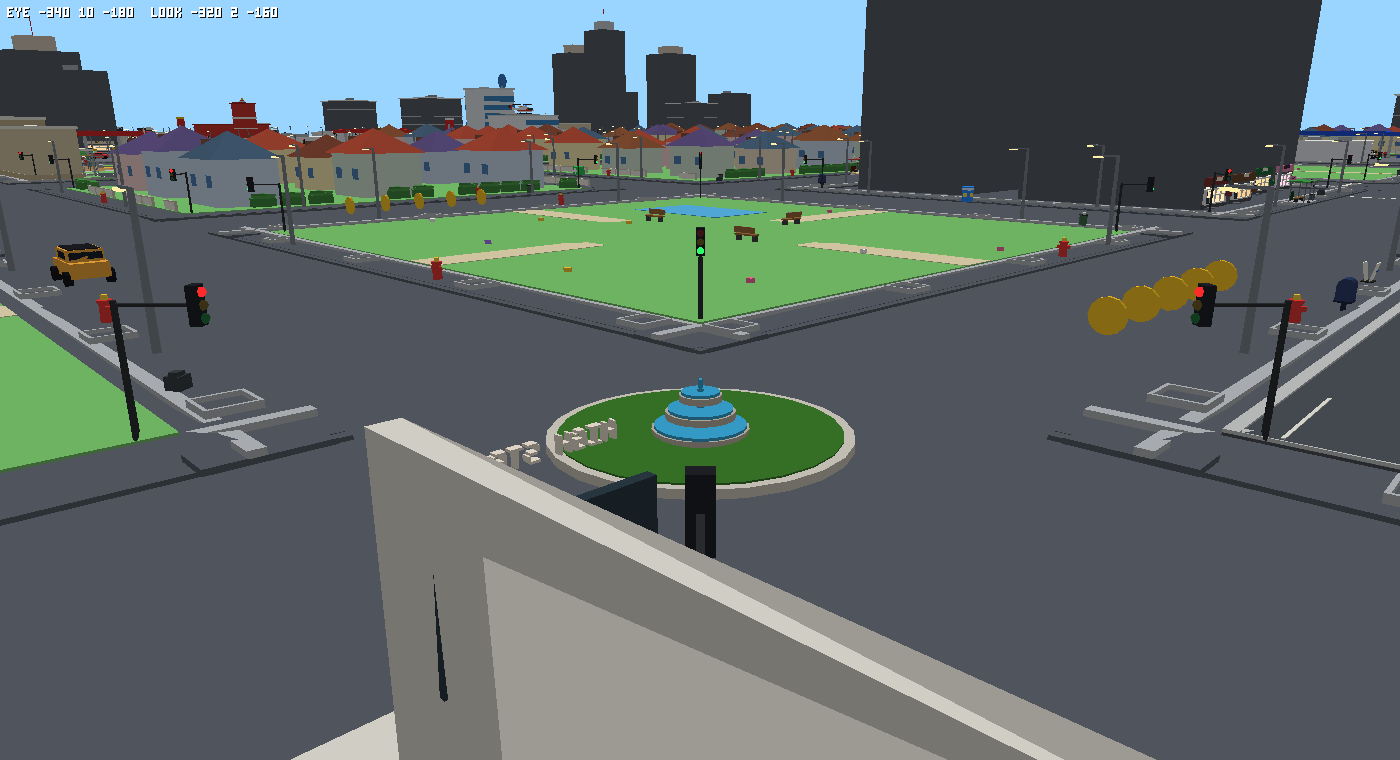
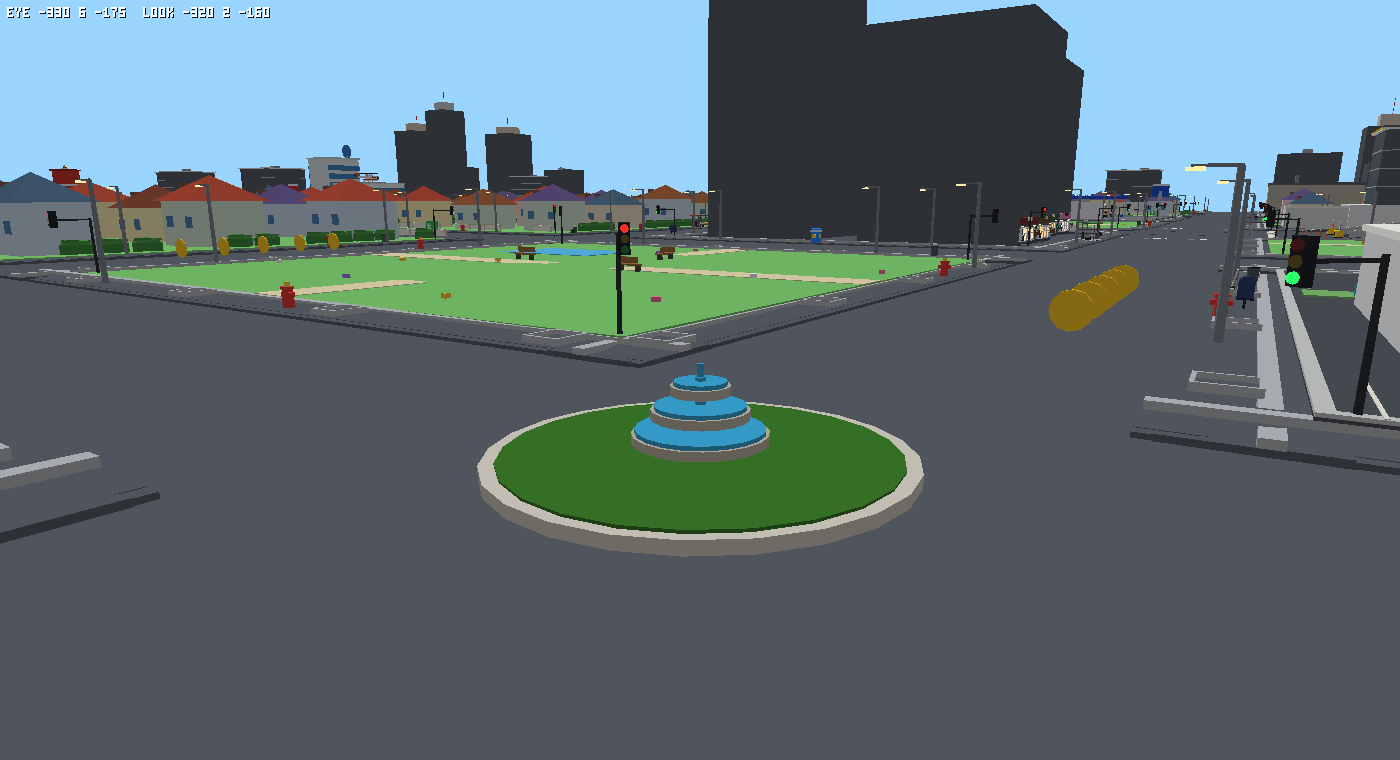
plazas: island is drivable, central feature is a breakable prop
The plaza island no longer has a solid — it's a 0.3 m curb (speed
bump) that cars can drive over. The central feature (fountain, statue,
or tree grove) is now a destructible prop placed via prop(), so a car
that hits it knocks it down: it flies through the air, slows the car,
and leaves the island empty, exactly like a hydrant or streetlight.

Distribution (41x41 range, ~15% of eligible junctions):
  fountains 77, statues 83, tree groves 80 — roughly 1/3 each.

The three render snapshots show each type in context.

diff --git a/js/world.js b/js/world.js
@@ -1456,60 +1456,30 @@ function buildFlyoverGantry(legV, dir) {
 }
 
 /* ---- Junction plazas ----
- * A small circular island in the middle of an eligible plain four-way junction: a curb ring in concrete, a
- * disc of grass inside, and a central feature (fountain, statue, or tree grove) chosen by the hash of the
- * junction's own indices. It sits on top of the road texture, which is fine: the island is a solid, so cars
- * steer around it and the junction reads as a small roundabout.
+ * A small circular island in the middle of an eligible plain four-way junction: a curb ring in concrete and
+ * a disc of grass inside. The central feature (fountain, statue, or tree grove) is a destructible prop placed
+ * at the junction's centre — a car that drives into it knocks it down, just like a streetlight or a hydrant.
+ * The island itself has no solid, so cars can drive over it (the curb is only 0.3 m tall — a speed bump).
  *
  * `plazaAt(jx, jz)` in js/flyover.js decides which junctions get one — it keeps plazas off the main roads
  * (where flyovers live), off junctions beside flyovers (the cut corner would swallow them), and off junctions
  * under flyover ramps. ~15% of the remaining junctions become plazas.
  *
  * The whole island is 5 m in radius. A plain junction's carriageway is 16.5 m wide, so that leaves 3.25 m of
- * lane on each side — enough for one lane each way, and enough for the traffic to go around the island. The
- * island is recorded as a solid (for cars) and a keepout (for props and parked cars), so nothing lands on it.
+ * lane on each side — enough for one lane each way, and enough for the traffic to go around the island.
  *
- * The builder produces only its own geometry — no props — and returns the island as a Group ready to be
- * placed at the junction's world position by the chunk that owns that corner (one chunk per junction, so
- * nothing duplicates).
+ * The builder produces only the island base (curb + grass). The central feature is placed separately as a
+ * prop by generateChunk() so it gets the same breakable-prop lifecycle as everything else (collision, drag,
+ * flying debris, etc.).
  */
-function buildPlazaIsland(radius, feature) {
+function buildPlazaIsland(radius) {
   const g = new THREE.Group();
-  const concrete = mat(0xd4cfc4), grass = mat(0x3a7a2a), stone = mat(0xbfb7a8), water = mat(0x3aa8d8, { emissive: 0x0a3a50 });
-  // The curb: a solid concrete disc that is the island's base, 0.3 m tall. Its top is the level traffic has to
-  // clear to drive on the island (which is what the solid's maxY enforces — nothing climbs onto it).
+  const concrete = mat(0xd4cfc4), grass = mat(0x3a7a2a);
+  // The curb: a concrete disc, 0.3 m tall. Low enough that a car can drive over it — it's a speed bump,
+  // not a wall. Cars that don't want to hit the central feature just go around.
   g.add(cyl(radius, radius, 0.3, 24, concrete, 0, 0.15, 0, false));
   // Grass: a slightly smaller disc on top of the curb, so the curb's rim stays bare concrete all round.
   g.add(cyl(radius - 0.35, radius - 0.35, 0.34, 24, grass, 0, 0.17, 0, false));
-  if (feature === 0) {
-    // ---- Fountain: a tiered stone basin with a water jet. Three rings get smaller and higher, the top ring
-    //      carries the jet (a narrow cylinder in water-colour emissive so it reads as water at night).
-    for (let i = 0; i < 3; i++) {
-      const r = 1.6 - i * 0.45, y = 0.35 + i * 0.55;
-      g.add(cyl(r, r, 0.22, 20, stone, 0, y, 0, false));
-      g.add(cyl(r - 0.08, r - 0.08, 0.1, 20, water, 0, y + 0.16, 0, false));
-    }
-    g.add(cyl(0.12, 0.12, 1.4, 10, water, 0, 1.05, 0, false));                // the jet
-    g.add(cyl(0.08, 0.08, 0.5, 8, water, 0, 1.8, 0, false));                  // spray tip
-  } else if (feature === 1) {
-    // ---- Statue: a bronze abstract sculpture on a stone pedestal. A tapered column of three stacked shapes
-    //      (box, cone, sphere) — abstract enough to read from any distance, specific enough to be a statue.
-    g.add(cyl(1.1, 1.1, 0.5, 16, stone, 0, 0.55, 0, false));                  // plinth
-    g.add(cyl(0.7, 0.9, 1.6, 8, mat(0xb87333, { emissive: 0x3a1e0a }), 0, 1.6, 0, false));
-    g.add(box(0.5, 1.0, 0.5, mat(0xb87333, { emissive: 0x3a1e0a }), 0, 2.8, 0, false));
-    const top = new THREE.Mesh(new THREE.SphereGeometry(0.35, 10, 8), mat(0xb87333, { emissive: 0x3a1e0a }));
-    top.position.set(0, 3.5, 0); g.add(top);
-  } else {
-    // ---- Tree grove: three small trees in a triangle on the grass, with a low stone bench ring.
-    const trunk = mat(0x5a3a1e), leaf = mat(0x2a6a28);
-    const pts = [[0, 1.1], [-0.95, -0.55], [0.95, -0.55]];
-    for (const [px, pz] of pts) {
-      g.add(cyl(0.14, 0.14, 1.4, 6, trunk, px, 0.95, pz, false));
-      const top = new THREE.Mesh(new THREE.SphereGeometry(0.7, 8, 6), leaf);
-      top.position.set(px, 2.0, pz); g.add(top);
-    }
-    g.add(cyl(1.8, 1.8, 0.18, 16, stone, 0, 0.39, 0, false));                 // central bed
-  }
   return g;
 }
 
@@ -1611,13 +1581,19 @@ function generateChunk(cx, cz, defer = false) {
   // under a ramp; the decision is deterministic, so the chunk and its audits agree.
   const p = plazaAt(cx, cz);
   if (p) {
-    const island = buildPlazaIsland(p.radius, p.feature);
+    // The plaza island: a circular curb ring + grass inside. No solid here — cars can drive over it (the
+    // curb is only 0.3 m tall, a speed-bump, and the user asked for the island to be drivable). It is still
+    // a keepout so props and parked cars stay off it.
+    const island = buildPlazaIsland(p.radius);
     island.position.set(x0, 0, z0);
     add(island);
-    ch.solids.push({ x: x0, z: z0, hx: p.radius, hz: p.radius, kind: 'plaza', maxY: 4.0,
-      box: { x: x0, z: z0, ux: 1, uz: 0, vx: 0, vz: 1, e1: p.radius, e2: p.radius } });
     ch.keepouts.push({ x: x0, z: z0, hx: p.radius + 0.5, hz: p.radius + 0.5 });
     ch.plazas.push({ x: x0, z: z0, radius: p.radius, feature: p.feature });
+    // The central feature is a destructible prop: a car that drives into it knocks it down, just like a
+    // streetlight or a hydrant. The prop's collision radius matches its visual size, so cars clip it before
+    // they reach the curb. The prop sits on the island's grass surface (y = 0.34).
+    const featKind = ['plazaFountain', 'plazaStatue', 'plazaTree'][p.feature];
+    prop(featKind, x0, z0, 0, 0.34);
   }
   // ---- Grade-separated interchanges ----
   // The city's two main roads carry flyovers every few junctions (js/flyover.js decides where): the road climbs

diff --git a/js/props.js b/js/props.js
@@ -79,4 +79,28 @@ export const PROP_DEFS = {
   pipe: { r: 0.9, drag: 0.93, color: 0x6c7580, make() { const g = new THREE.Group(), m = mat(0x6c7580);
     const mkPipe = (z, y) => { const p = cyl(0.18, 0.18, 1.7, 10, m, 0, y, z, false); p.rotation.z = Math.PI / 2; return p; };
     g.add(mkPipe(-0.2, 0.18)); g.add(mkPipe(0.2, 0.18)); g.add(mkPipe(0, 0.5)); return g; } },
+  // Plaza features: each is a destructible prop — a car that drives into it knocks it down, just like a
+  // hydrant or a streetlight. They live in the middle of a plaza island (js/world.js places them via prop()),
+  // and the island's curb is low (0.3 m) so a car can drive over the island after smashing the centre.
+  plazaFountain: { r: 1.8, drag: 0.92, color: 0x3aa8d8, make() {
+    const g = new THREE.Group(), stone = mat(0xbfb7a8), water = mat(0x3aa8d8, { emissive: 0x0a3a50 });
+    for (let i = 0; i < 3; i++) { const r = 1.6 - i * 0.45, y = 0.35 + i * 0.55;
+      g.add(cyl(r, r, 0.22, 20, stone, 0, y, 0, false)); g.add(cyl(r - 0.08, r - 0.08, 0.1, 20, water, 0, y + 0.16, 0, false)); }
+    g.add(cyl(0.12, 0.12, 1.4, 10, water, 0, 1.05, 0, false));
+    g.add(cyl(0.08, 0.08, 0.5, 8, water, 0, 1.8, 0, false));
+    return g; } },
+  plazaStatue: { r: 1.2, drag: 0.9, color: 0xb87333, make() {
+    const g = new THREE.Group(), bronze = mat(0xb87333, { emissive: 0x3a1e0a }), stone = mat(0xbfb7a8);
+    g.add(cyl(1.1, 1.1, 0.5, 16, stone, 0, 0.55, 0, false));
+    g.add(cyl(0.7, 0.9, 1.6, 8, bronze, 0, 1.6, 0, false));
+    g.add(box(0.5, 1.0, 0.5, bronze, 0, 2.8, 0, false));
+    const top = new THREE.Mesh(new THREE.SphereGeometry(0.35, 10, 8), bronze); top.position.set(0, 3.5, 0); g.add(top);
+    return g; } },
+  plazaTree: { r: 1.5, drag: 0.88, color: 0x2a6a28, make() {
+    const g = new THREE.Group(), trunk = mat(0x5a3a1e), leaf = mat(0x2a6a28);
+    const pts = [[0, 1.1], [-0.95, -0.55], [0.95, -0.55]];
+    for (const [px, pz] of pts) { g.add(cyl(0.14, 0.14, 1.4, 6, trunk, px, 0.95, pz, false));
+      const top = new THREE.Mesh(new THREE.SphereGeometry(0.7, 8, 6), leaf); top.position.set(px, 2.0, pz); g.add(top); }
+    g.add(cyl(1.8, 1.8, 0.18, 16, mat(0xbfb7a8), 0, 0.39, 0, false));
+    return g; } },
 };
